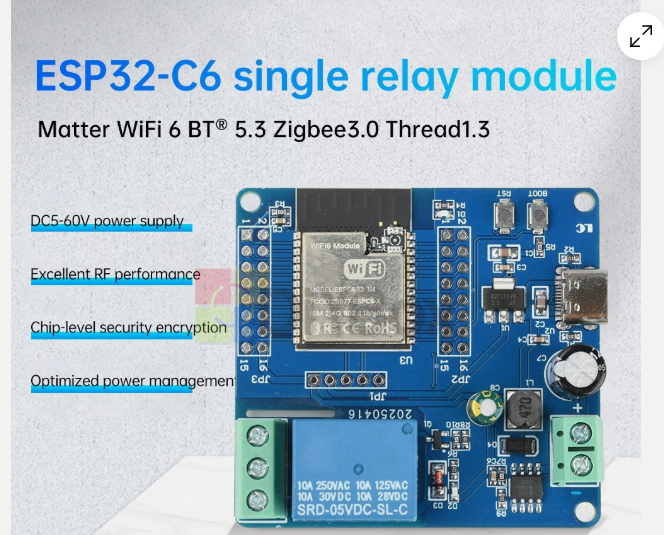
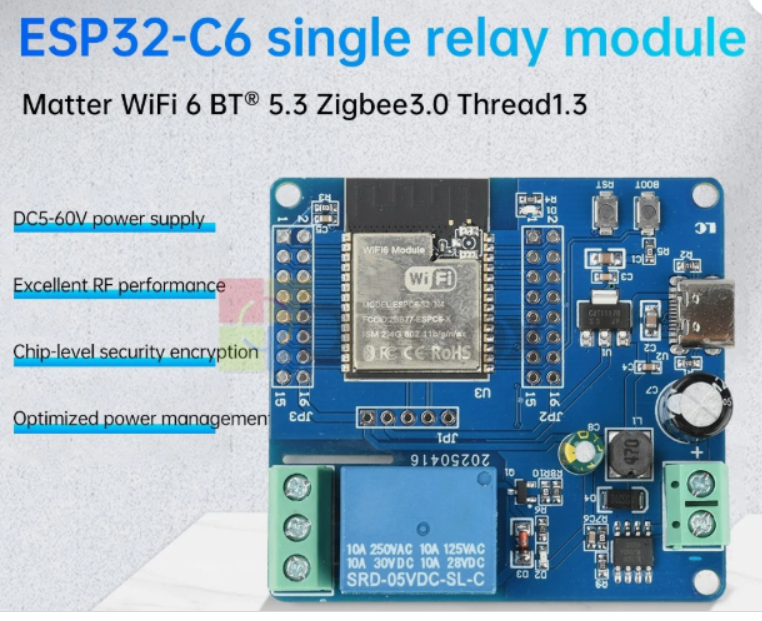
README: relay module thumbnail in SlaveWallas screenshots; cleaner product photo crop
Claude-Session: https://claude.ai/code/session_01Y35GLsdNot6F4rkygnPYm4

diff --git a/README.md b/README.md
@@ -39,6 +39,11 @@ ESP32-based wireless remote start system for a Honda EU70IS generator and Wallas
 
 ## Screenshots — SlaveWallas
 
+<a href="docs/hardware/SlaveWallas_ESP32-C6_relay_module.png"><img src="docs/hardware/SlaveWallas_ESP32-C6_relay_module.png" alt="ESP32-C6 single relay module (SlaveWallas board)" width="240" align="right"></a>
+
+**The board:** SlaveWallas runs on an ESP32-C6 single-relay module (DC 5–60 V supply, relay on
+GPIO19) — see [Hardware Guide §3.2](docs/HARDWARE.md). Seller's product photo; click to enlarge.
+
 **Status tab, running standalone** (no MasterRemote heard for 30 s): the Mode line says
 *Standalone*, and **Start Wallas / Stop Wallas** drive the heater relay directly. With MasterRemote
 present the same buttons act as MasterRemote's own (FSD §3.5).
